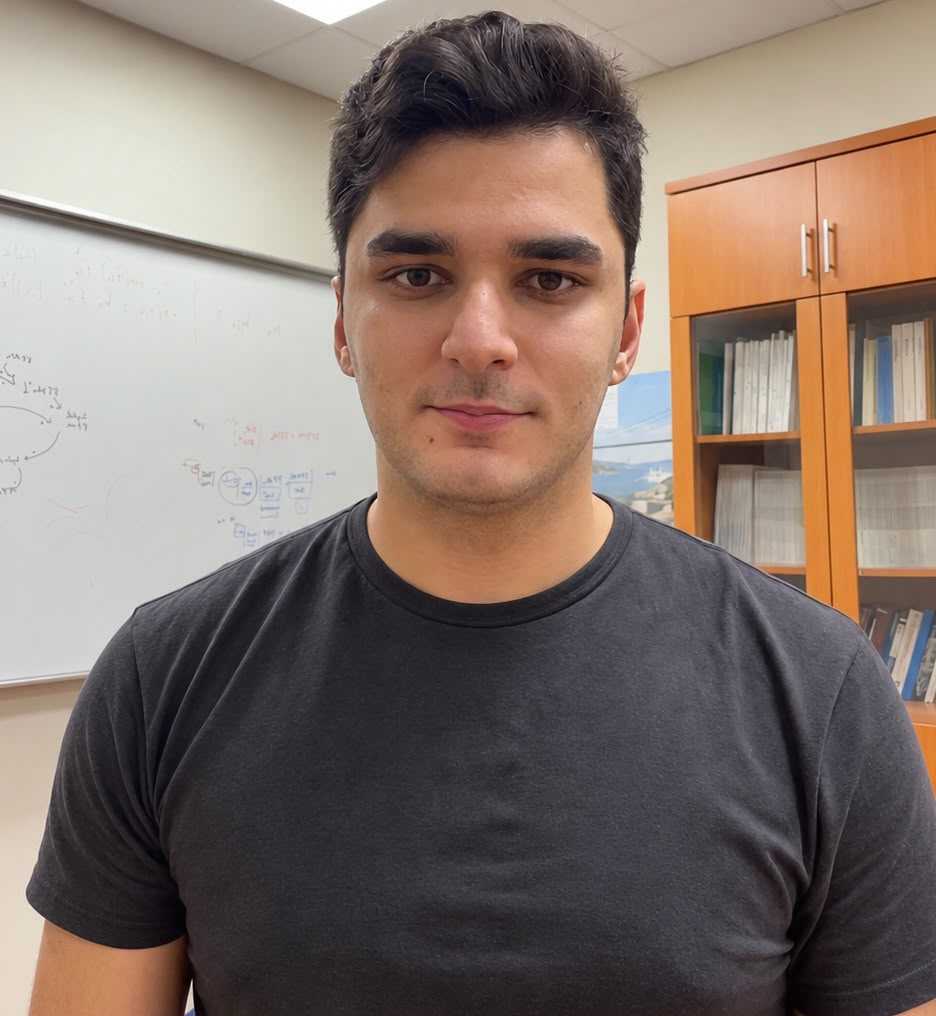
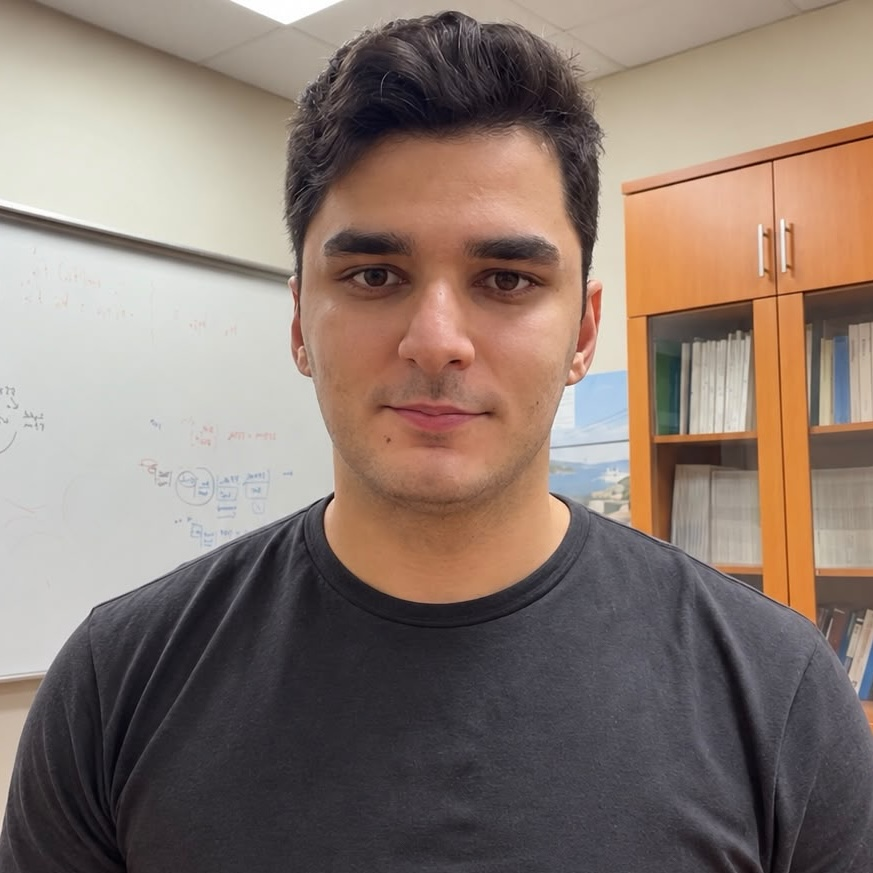
28-10-2026 edit 3

diff --git a/assets/css/about.css b/assets/css/about.css
@@ -1,3 +1,8 @@
+.about-page {
+  max-width: 48rem;
+  margin: 0 auto;
+}
+
 .about-header {
   display: grid;
   grid-template-columns: minmax(0, 1fr) 145px;
